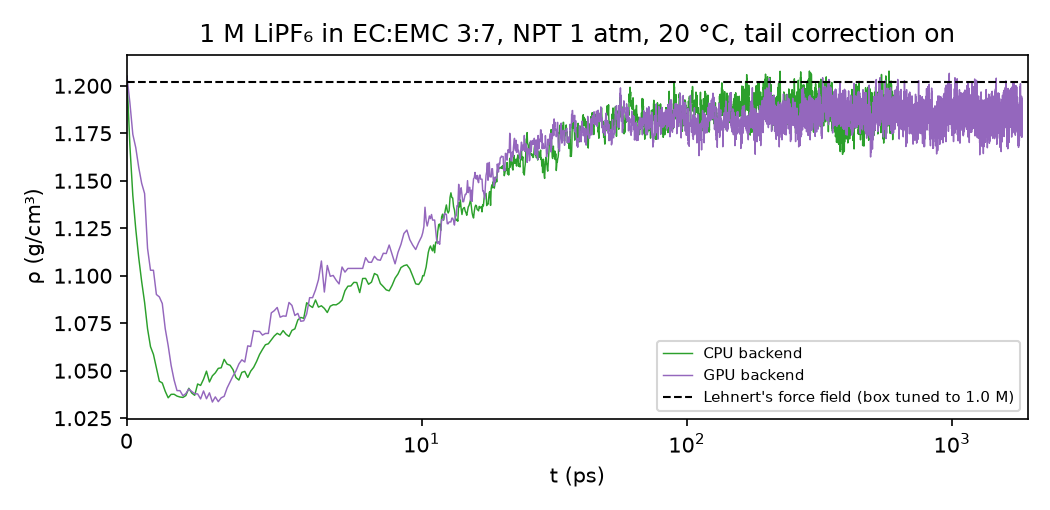
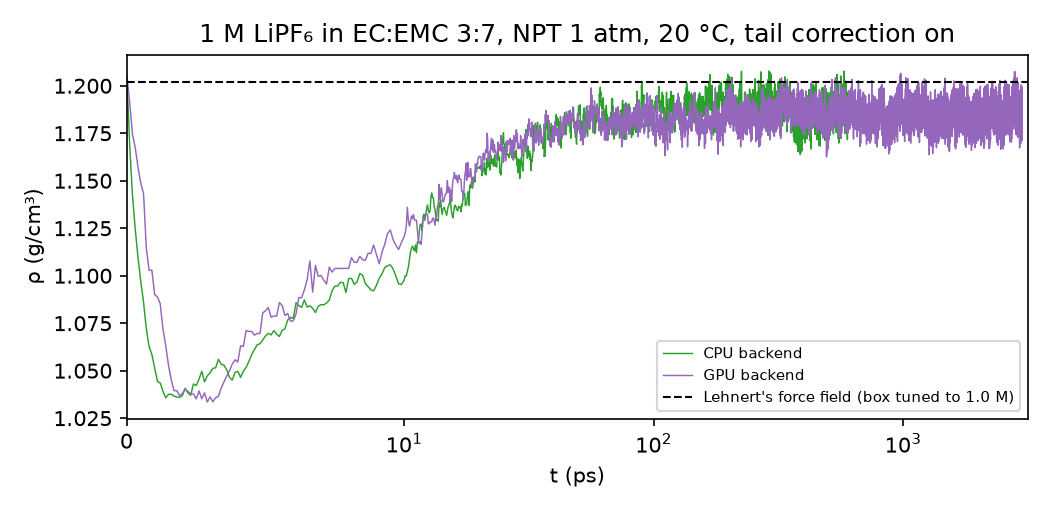
research: electrolyte NPT to 3 ns; Li+ shell and clusters over 1.5-3 ns
GPU density 1.1850 ± 0.0008 g/cm³ (−1.4 % vs Lehnert's model). Shell per Li⁺: 3.69 EMC, 0.38 EC
and 0.07 PF₆⁻; 93.5 % of Li⁺ are free of PF₆⁻ contacts. The dipole comparison of §3.4 now has
numbers. Figures regenerated.

diff --git a/docs/research/report/report.md b/docs/research/report/report.md
@@ -90,6 +90,9 @@ what the present model gets right and wrong.
 - **Densities:** block averages over the second half of each run.
 - **Pressure:** the virial pressure (atomic on the CPU, molecular on the GPU; equal means).
 - **Li⁺ shells:** per-frame counts of carbonyl O and PF₆ F within the first minimum of g(r).
+- **Ion association:** Li⁺–PF₆⁻ clusters are the connected components of the contact graph
+  (Li–P within the first minimum of g(r)). Each frame's composition is recorded, with block
+  errors.
 - **Transport (pending):** Onsager coefficients from collective mean squared displacements in the
   barycentric frame (Fong et al. 2020), κ, t₊ (COM frame), Nernst–Einstein κ and ionicity, with
   block errors.
@@ -151,8 +154,8 @@ what the present model gets right and wrong.
 
 **Under NPT at 1 atm:**
 - the box first expands (the pressure overshoot) and then settles within about 100 ps;
-- the density is 1.1862 ± 0.0016 g/cm³ (CPU, to 600 ps) and 1.1852 ± 0.0007 g/cm³ (GPU, to
-  1.83 ns);
+- the density is 1.1862 ± 0.0016 g/cm³ (CPU, 0.3–0.6 ns) and 1.1850 ± 0.0008 g/cm³ (GPU,
+  1.5–3 ns);
 - that is **1.4 % below Lehnert's model**;
 - the two backends agree.
 
@@ -168,8 +171,19 @@ replaces both EC carbonyl O and PF₆⁻ F.
 
 | run | t | EC O=C | EMC O=C | PF₆⁻ F |
 |---|---|---|---|---|
-| CPU | 0.6 ns | 0.55 | 3.26 | 0.51 |
-| GPU | 1.83 ns | 0.38 | 3.64 | 0.21 |
+| CPU | 0.6 ns (last frame) | 0.55 | 3.26 | 0.51 |
+| GPU | 3 ns (last frame) | 0.32 | 3.72 | 0.26 |
+
+**Averaged over 1.5–3 ns (GPU, 300 frames; contacts within the first minimum of each g(r)):**
+
+| per Li⁺ | EC O=C | EMC O=C | PF₆⁻ (P within 0.33 nm) |
+|---|---|---|---|
+| mean contacts | 0.38 | 3.69 | 0.07 |
+
+- The most common shells are four EMC (49 %), four EMC plus one EC (17 %), and three EMC (8 %).
+- **Free ions dominate:** 93.5 ± 0.6 % of Li⁺ have no PF₆⁻ in contact. Contact pairs hold 6.2 ±
+  0.5 %, and larger clusters well under 1 %. (Over 0.3–0.6 ns in the CPU run, with a cutoff of
+  0.38 nm, it was 70 % free.)
 
 **Two observations:**
 1. **The shell needs nanoseconds,** two orders of magnitude longer than the density. Short
@@ -181,7 +195,12 @@ replaces both EC carbonyl O and PF₆⁻ F.
 
 **The likely cause is in the parameters.** LigParGen charges each molecule separately:
 - EC's carbonyl O gets −0.393 e, EMC's −0.531 e (the carbonyl C +0.579 and +0.588 e);
-- a Li⁺ at 0.21 nm responds mostly to that one charge, not to EC's much larger molecular dipole.
+- a Li⁺ at 0.21 nm responds mostly to that one charge, not to the molecular dipole. In these
+  templates' conformers, EC's dipole is 5.81 D and EMC's 0.58 D (point charges).
+- The open OPLS-AA atom-type set for EC (Caleman et al. 2012) gives a smaller dipole (5.28 D) on
+  the same geometry. Its carbonyl O is stronger (−0.50 e), because it puts positive charge on the
+  carbonyl C instead of the hydrogens
+  ([forcefield-survey.md](../forcefield-survey.md)).
 
 Calculation A4 (Li⁺ in pure EC and pure EMC) will test this directly.
 

diff --git a/docs/research/calculation-plan.md b/docs/research/calculation-plan.md
@@ -17,7 +17,7 @@
 | ID | Calculation | Tests | Cost | Status |
 |---|---|---|---|---|
 | A1 | Pure EC, EMC, DMC, PC, MP: NPT 1 atm, 25 and 40 °C, 0.5 ns, tail correction on | density against Lehnert SI Table S2 (±2 %) | 10 × 0.2 h | ⏳ 3/10 done; EC 40 °C, DMC, PC, MP queued |
-| A2 | 1 M EC:EMC, NPT 1 atm, 20 °C, 3 ns (GPU) plus 0.6 ns (CPU twin) | electrolyte density against Lehnert's model; equilibration time; backend agreement | GPU 1.3 h; CPU twin about 14 h | ⏳ CPU done, GPU at 1.8/3 ns |
+| A2 | 1 M EC:EMC, NPT 1 atm, 20 °C, 3 ns (GPU) plus 0.6 ns (CPU twin) | electrolyte density against Lehnert's model; equilibration time; backend agreement | GPU 1.3 h; CPU twin about 14 h | ✅ ρ = 1.1850 ± 0.0008 g/cm³ (−1.4 %); shell 1.5–3 ns in report §3.4 |
 | A3 | Transport pilot: A2's end state, 20 ns NVT at 20 °C | whole transport chain on real data; noise of L₊₋; κ, t₊, D with the current model | about 9 h at 55 ns/day | ⏳ queued tonight |
 | A4 | Li⁺ preference: one Li⁺PF₆⁻ pair in pure EC and in pure EMC, plus 1 Li⁺ in EC:EMC 1:1 (dilute), 5 ns each | which carbonyl Li⁺ binds, without salt crowding; isolates the charge effect | 3 × ≤ 2 h | ⬜ |
 | A5 | Enthalpy of vaporization of each solvent: liquid run (A1) plus a single molecule in vacuum (non-periodic, 10 ns) | ΔH_vap against experiment: cohesion, independent of density | 5 × 2 h CPU | ❓ experimental ΔH_vap source needed |
